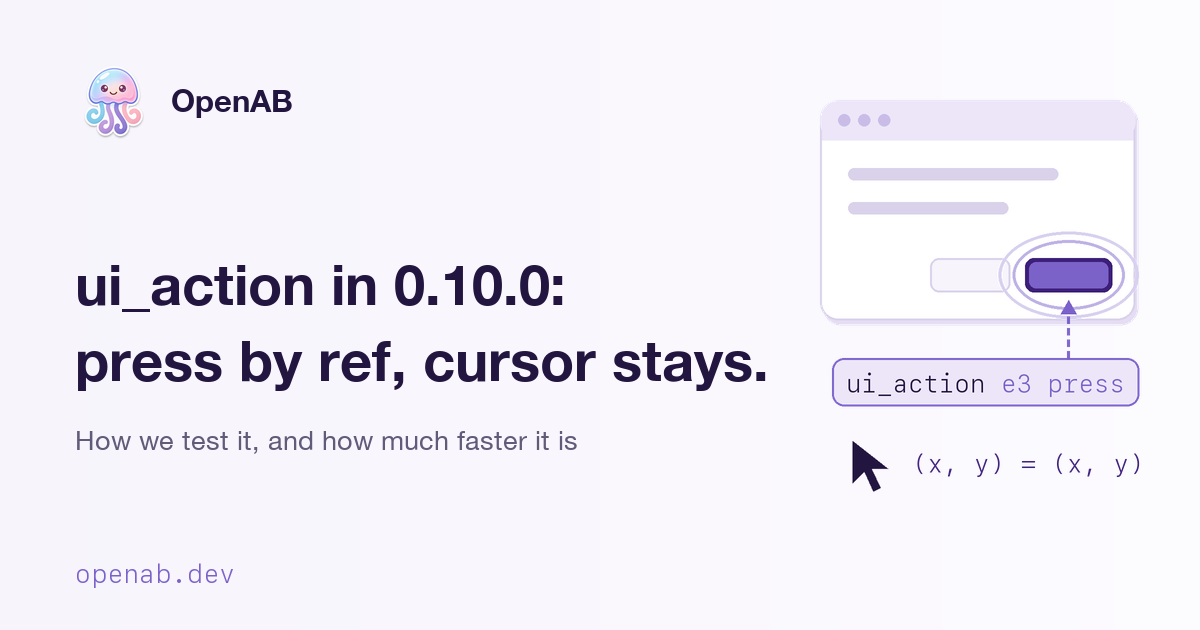
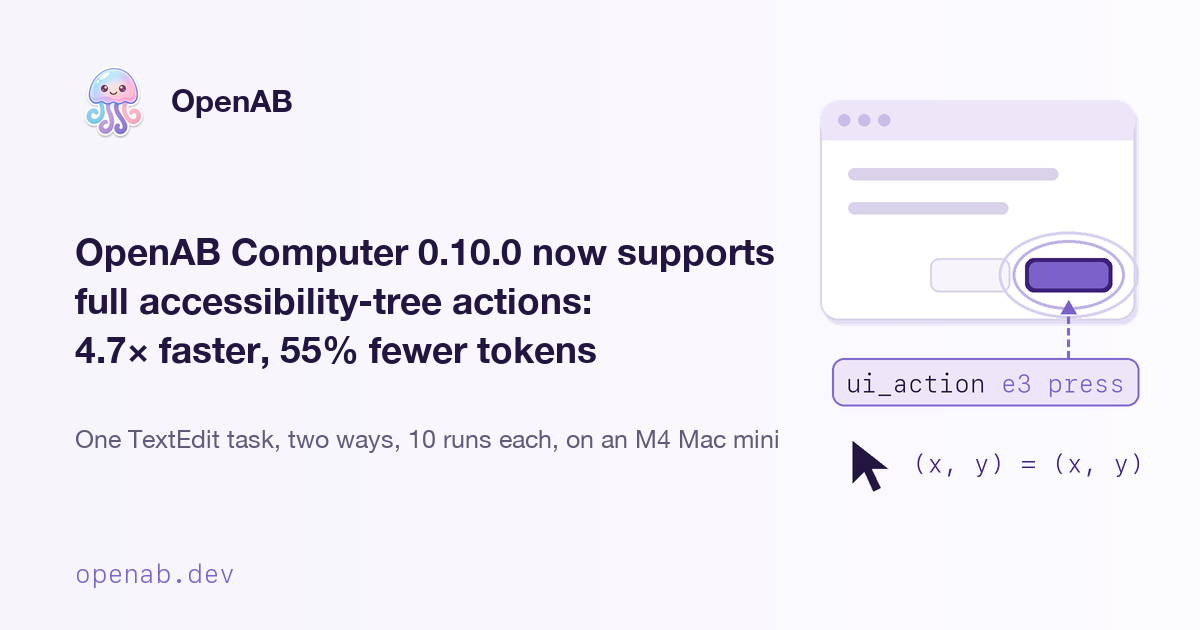
docs(notes): retitle the ui_action note with its measured results
New titles (en/zh/ja/ko), approved by pahud; slug notes/ui-action unchanged:
- en: OpenAB Computer 0.10.0 now supports full accessibility-tree actions:
  4.7× faster and 55% fewer tokens in our test
- zh: OpenAB Computer 0.10.0 開始支援完整的 accessibility tree 操作：實測快 4.7 倍，token 省 55%
- ja: OpenAB Computer 0.10.0 でアクセシビリティツリーの操作に完全対応：実測で 4.7 倍速く、トークンは 55% 削減
- ko: OpenAB Computer 0.10.0, 접근성 트리 조작 완전 지원: 실측 4.7배 빠르고 토큰 55% 절약

- A dek under the h1 (new optional `dek` field, .note .dek) states the source:
  one TextEdit task, two ways, 10 runs each, on an M4 Mac mini.
- desc / og / twitter / og:image:alt and the index entries carry the new title
  and the 4.7× / 55% figures. The body now says 55% fewer (1,435 vs 3,165) on a
  standard model and 74% fewer (1,435 vs 5,427) on a high-res model, in place
  of 2.2× / 3.8×. The first note's link to this one shows the new title.
- og_cards.py: headlines of 3-4 lines (2-line cards unchanged byte for byte);
  only the 4 ui-action cards were regenerated. Mascot and art unchanged.
- ja 組織 copy untouched. Home pages change only by the style.css hash.

Self-checks: og_cards.py (16 cards 1200x630 RGB, no overflow) then build.py;
cards viewed at 600x315 in all 4 languages; headless Chromium on 12 note pages
at 1280 and 390 px: 200, h1 + dek present, no page errors, no overflow at
390 px; every internal href/src 200, external links 200; leak grep clean;
no U+FFFD.

Changed region(s): [[0.0617, 0.3619, 0.6475, 0.6333], [0.0617, 0.6635, 0.6475, 0.7238]]

diff --git a/ja/notes/ui-action/index.html b/ja/notes/ui-action/index.html
@@ -3,30 +3,30 @@
 <head>
 <meta charset="utf-8">
 <meta name="viewport" content="width=device-width, initial-scale=1">
-<title>OpenAB Computer 0.10.0 の ui_action をどう試したか — OpenAB</title>
-<meta name="description" content="第 1 段階は macOS のアクセシビリティツリーを読むだけでした。OpenAB Computer 0.10.0 の ui_action でツリーを操作できます。一連の操作をどう試しているか、そしてスクリーンショットの繰り返しと比べた差です。TextEdit の作業一つで、入力トークンは 3,165 から 1,435 に、時間は 1.70 秒から 0.36 秒になりました。">
+<title>OpenAB Computer 0.10.0 でアクセシビリティツリーの操作に完全対応：実測で 4.7 倍速く、トークンは 55% 削減 — OpenAB</title>
+<meta name="description" content="第 1 段階は macOS のアクセシビリティツリーを読むだけでした。OpenAB Computer 0.10.0 の ui_action でツリーを操作できます。一連の操作をどう試しているか、そしてスクリーンショットの繰り返しと比べた差です。TextEdit の作業一つで 4.7 倍速く（0.36 秒対 1.70 秒）、入力トークンは 55% 少なくなりました（1,435 対 3,165）。">
 <link rel="canonical" href="https://openab.dev/ja/notes/ui-action/">
 <meta property="og:type" content="article">
 <meta property="og:site_name" content="OpenAB">
 <meta property="og:locale" content="ja_JP">
-<meta property="og:title" content="OpenAB Computer 0.10.0 の ui_action をどう試したか — OpenAB">
-<meta property="og:description" content="第 1 段階は macOS のアクセシビリティツリーを読むだけでした。OpenAB Computer 0.10.0 の ui_action でツリーを操作できます。一連の操作をどう試しているか、そしてスクリーンショットの繰り返しと比べた差です。TextEdit の作業一つで、入力トークンは 3,165 から 1,435 に、時間は 1.70 秒から 0.36 秒になりました。">
+<meta property="og:title" content="OpenAB Computer 0.10.0 でアクセシビリティツリーの操作に完全対応：実測で 4.7 倍速く、トークンは 55% 削減 — OpenAB">
+<meta property="og:description" content="第 1 段階は macOS のアクセシビリティツリーを読むだけでした。OpenAB Computer 0.10.0 の ui_action でツリーを操作できます。一連の操作をどう試しているか、そしてスクリーンショットの繰り返しと比べた差です。TextEdit の作業一つで 4.7 倍速く（0.36 秒対 1.70 秒）、入力トークンは 55% 少なくなりました（1,435 対 3,165）。">
 <meta property="og:url" content="https://openab.dev/ja/notes/ui-action/">
-<meta property="og:image" content="https://openab.dev/ja/notes/ui-action/og-ja.png?v=5183fa54">
+<meta property="og:image" content="https://openab.dev/ja/notes/ui-action/og-ja.png?v=db577590">
 <meta property="og:image:width" content="1200">
 <meta property="og:image:height" content="630">
-<meta property="og:image:alt" content="OpenAB 開発ノート：OpenAB Computer 0.10.0 の ui_action をどう試したか">
+<meta property="og:image:alt" content="OpenAB 開発ノート：OpenAB Computer 0.10.0 でアクセシビリティツリーの操作に完全対応、実測で 4.7 倍速く、トークンは 55% 削減">
 <meta property="article:published_time" content="2026-11-10">
 <meta name="twitter:card" content="summary_large_image">
-<meta name="twitter:title" content="OpenAB Computer 0.10.0 の ui_action をどう試したか — OpenAB">
-<meta name="twitter:description" content="第 1 段階は macOS のアクセシビリティツリーを読むだけでした。OpenAB Computer 0.10.0 の ui_action でツリーを操作できます。一連の操作をどう試しているか、そしてスクリーンショットの繰り返しと比べた差です。TextEdit の作業一つで、入力トークンは 3,165 から 1,435 に、時間は 1.70 秒から 0.36 秒になりました。">
-<meta name="twitter:image" content="https://openab.dev/ja/notes/ui-action/og-ja.png?v=5183fa54">
+<meta name="twitter:title" content="OpenAB Computer 0.10.0 でアクセシビリティツリーの操作に完全対応：実測で 4.7 倍速く、トークンは 55% 削減 — OpenAB">
+<meta name="twitter:description" content="第 1 段階は macOS のアクセシビリティツリーを読むだけでした。OpenAB Computer 0.10.0 の ui_action でツリーを操作できます。一連の操作をどう試しているか、そしてスクリーンショットの繰り返しと比べた差です。TextEdit の作業一つで 4.7 倍速く（0.36 秒対 1.70 秒）、入力トークンは 55% 少なくなりました（1,435 対 3,165）。">
+<meta name="twitter:image" content="https://openab.dev/ja/notes/ui-action/og-ja.png?v=db577590">
 <meta name="theme-color" content="#F7F4FC">
 <link rel="icon" type="image/png" sizes="16x16" href="../../../assets/favicon-16.png?v=24eecb58">
 <link rel="icon" type="image/png" sizes="32x32" href="../../../assets/favicon-32.png?v=54b7c8d2">
 <link rel="icon" type="image/png" sizes="64x64" href="../../../assets/favicon-64.png?v=99caab3e">
 <link rel="apple-touch-icon" href="../../../assets/apple-touch-icon.png?v=71a274e9">
-<link rel="stylesheet" href="../../../style.css?v=63e2e405">
+<link rel="stylesheet" href="../../../style.css?v=da458293">
 <link rel="alternate" hreflang="en" href="https://openab.dev/notes/ui-action/">
 <link rel="alternate" hreflang="zh-Hant" href="https://openab.dev/zh/notes/ui-action/">
 <link rel="alternate" hreflang="ja" href="https://openab.dev/ja/notes/ui-action/">
@@ -57,7 +57,8 @@ document.addEventListener("click", function (e) {
 <main class="note">
 <article>
 <p class="back"><a href="../">← 開発ノート</a></p>
-<h1>OpenAB Computer 0.10.0 の ui_action をどう試したか</h1>
+<h1>OpenAB Computer 0.10.0 でアクセシビリティツリーの操作に完全対応：実測で 4.7 倍速く、トークンは 55% 削減</h1>
+<p class="dek">M4 Mac mini 1 台で、同じ TextEdit の作業を二つのやり方で 10 回ずつ実行した結果です。</p>
 <p class="byline"><time datetime="2026-11-10">2026-11-10 · OpenAB Computer 0.10.0</time></p>
 <p class="lede"><a href="../accessibility-tree/">前回の開発ノート</a>では <code>ui_snapshot</code> を紹介しました。これが第 1 段階（OpenAB Computer 0.9.0）で、エージェントは Mac アプリのアクセシビリティツリーを読めるようになりましたが、操作はまだできませんでした。<a href="https://github.com/openabdev/openab-computer/releases/tag/v0.10.0">OpenAB Computer 0.10.0</a> で加わった <code>ui_action</code> は、このツリーを操作します。スナップショットの <code>snapshot_id</code> と <code>ref</code> を渡せば、press、set_value、focus、show_menu、confirm、cancel ができ、カーソルは動きません。</p>
 <figure class="fig anim press" data-steps="4" data-ms="1400" aria-label="アニメーション：説明用のダイアログ。エージェントはスナップショットを撮り、「保存」ボタンが ref e3 だと見つけます。マウス位置を読み、スナップショット ID、ref e3、press を渡して ui_action を呼ぶと、ボタンはアクセシビリティ API で押されます。そのあともう一度マウス位置を読むと同じ点です。カーソルは一度も動いていません。">
@@ -106,7 +107,7 @@ document.addEventListener("click", function (e) {
 <figcaption>アニメーション：同じ作業を二つのやり方で行います。新しい TextEdit の書類に一文を入力して確かめる作業です。どちらもツール呼び出しは四回で、カウンターは呼び出しごとに増えます。A のスクリーンショットの繰り返しは 1.70 秒、画像 1.0 MB、入力トークン約 3,165（高解像度モデルでは約 5,427）で終わり、ポインターが動きます。B のツリーを使うやり方は 0.36 秒、テキスト 5.8 KB、約 1,435 トークンで終わり、ポインターは動きません。M4 Mac mini でスイッチボード経由、各 10 回の中央値です。</figcaption>
 </figure>
 <div class="cmp-wrap"><table class="cmp perf"><caption>実測：やり方ごとに 10 回、同じ TextEdit の作業</caption><thead><tr><th scope="col"></th><th scope="col">A) スクリーンショットの繰り返し</th><th scope="col">B) ツリーを使う</th></tr></thead><tbody><tr><th scope="row">作業あたりのツール呼び出し</th><td data-label="A) スクリーンショットの繰り返し">4</td><td data-label="B) ツリーを使う">4</td></tr><tr><th scope="row">作業あたりの時間（中央値 / p90）</th><td data-label="A) スクリーンショットの繰り返し">1.70 s / 1.83 s</td><td data-label="B) ツリーを使う">0.36 s / 0.42 s</td></tr><tr><th scope="row">呼び出しあたりの時間（中央値）</th><td data-label="A) スクリーンショットの繰り返し">333 ms</td><td data-label="B) ツリーを使う">101 ms</td></tr><tr><th scope="row">返ってきた画像</th><td data-label="A) スクリーンショットの繰り返し">1,001,879 B（1920×1080 の JPEG 2 枚）</td><td data-label="B) ツリーを使う">0</td></tr><tr><th scope="row">返ってきたテキスト</th><td data-label="A) スクリーンショットの繰り返し">188 B</td><td data-label="B) ツリーを使う">5,846 B（スナップショット 2 回、各約 2.8 KB）</td></tr><tr><th scope="row">推定入力トークン（標準モデル）</th><td data-label="A) スクリーンショットの繰り返し">3,165</td><td data-label="B) ツリーを使う">1,435</td></tr><tr><th scope="row">推定入力トークン（高解像度モデル）</th><td data-label="A) スクリーンショットの繰り返し">5,427</td><td data-label="B) ツリーを使う">1,435</td></tr><tr><th scope="row">ポインターが動いた</th><td data-label="A) スクリーンショットの繰り返し">10 回中 10 回</td><td data-label="B) ツリーを使う">10 回中 0 回</td></tr><tr><th scope="row">文字が書類に入った</th><td data-label="A) スクリーンショットの繰り返し">10 回中 10 回</td><td data-label="B) ツリーを使う">10 回中 10 回</td></tr></tbody></table></div>
-<p>この作業では、A が使った入力トークンは標準モデルで B の約 2.2 倍（3,165 対 1,435）、高解像度モデルで約 3.8 倍（5,427 対 1,435）でした。B は 0.36 秒、A は 1.70 秒で終わり、B のほうが約 4.7 倍速く、ポインターも一度も動きませんでした。</p>
+<p>この作業では、B が使った入力トークンは標準モデルで A より約 55% 少なく（1,435 対 3,165）、高解像度モデルでは約 74% 少なくなりました（1,435 対 5,427）。B は 0.36 秒、A は 1.70 秒で終わり、B のほうが約 4.7 倍速く、ポインターも一度も動きませんでした。</p>
 <p>A の時間の多くは、44 回のキー入力（877 ms）と、スイッチボードを通って返ってくる約 500 KB のスクリーンショット 2 枚にかかっています。B の <code>ui_action</code> は一回あたり端から端まで約 67 ms で、その大半はネットワークの往復です。</p>
 <p class="cmp-note">トークンの数え方：画像は <a href="https://platform.claude.com/docs/en/build-with-claude/vision">Anthropic のビジョンのガイド</a>の式を使いました。画像をモデルの上限まで縮めてから ⌈幅/28⌉ × ⌈高さ/28⌉ です。標準モデル（長辺 1,568 px まで）では 1920×1080 のスクリーンショットが 1456×819 に縮み、約 1,560 トークン。高解像度モデル（長辺 2,576 px まで）では縮まず、約 2,691 トークンです。テキストは約 4 文字で 1 トークンとし、トークナイザーは使っていません。数えたのはモデルが実際に見る内容だけで、ツールの定義やモデル自身の出力は含みません。</p>
 <p class="cmp-note">条件：M4 Mac mini（16 GB、macOS 15.7）、1920×1080 のディスプレイ 1 枚、OpenAB Computer 0.10.0。エージェントは tailnet 上の HTTPS でスイッチボードにつなぎ、そこから Mac mini に届くので、毎回の呼び出しにこの往復がかかります。やり方ごとに 10 回、A と B を交互に実行し、最初のウォームアップ 1 組は捨てました。計ったのは四回のツール呼び出しだけです。A のクリック位置は既知のウィンドウ位置から決めました。実際のモデルなら最初のスクリーンショットから読み取ります。数字は 1 台のマシンと 1 つの作業から得たもので、モデルがスクリーンショットやスナップショットを見て考える時間は含みません。</p>

diff --git a/zh/notes/ui-action/index.html b/zh/notes/ui-action/index.html
@@ -3,30 +3,30 @@
 <head>
 <meta charset="utf-8">
 <meta name="viewport" content="width=device-width, initial-scale=1">
-<title>我們怎麼測試 OpenAB Computer 0.10.0 的 ui_action — OpenAB</title>
-<meta name="description" content="第一階段只能讀 macOS 的 accessibility tree，OpenAB Computer 0.10.0 的 ui_action 讓 agent 可以直接操作它。這篇說明我們怎麼測整個操作過程，以及它比截圖迴圈省多少：在一個 TextEdit 任務上，輸入 token 從 3,165 降到 1,435，時間從 1.70 秒降到 0.36 秒。">
+<title>OpenAB Computer 0.10.0 開始支援完整的 accessibility tree 操作：實測快 4.7 倍，token 省 55% — OpenAB</title>
+<meta name="description" content="第一階段只能讀 macOS 的 accessibility tree，OpenAB Computer 0.10.0 的 ui_action 讓 agent 可以直接操作它。這篇說明我們怎麼測整個操作過程，以及它比截圖迴圈省多少：在一個 TextEdit 任務上，快了 4.7 倍（0.36 秒對 1.70 秒），輸入 token 省了 55%（1,435 對 3,165）。">
 <link rel="canonical" href="https://openab.dev/zh/notes/ui-action/">
 <meta property="og:type" content="article">
 <meta property="og:site_name" content="OpenAB">
 <meta property="og:locale" content="zh_TW">
-<meta property="og:title" content="我們怎麼測試 OpenAB Computer 0.10.0 的 ui_action — OpenAB">
-<meta property="og:description" content="第一階段只能讀 macOS 的 accessibility tree，OpenAB Computer 0.10.0 的 ui_action 讓 agent 可以直接操作它。這篇說明我們怎麼測整個操作過程，以及它比截圖迴圈省多少：在一個 TextEdit 任務上，輸入 token 從 3,165 降到 1,435，時間從 1.70 秒降到 0.36 秒。">
+<meta property="og:title" content="OpenAB Computer 0.10.0 開始支援完整的 accessibility tree 操作：實測快 4.7 倍，token 省 55% — OpenAB">
+<meta property="og:description" content="第一階段只能讀 macOS 的 accessibility tree，OpenAB Computer 0.10.0 的 ui_action 讓 agent 可以直接操作它。這篇說明我們怎麼測整個操作過程，以及它比截圖迴圈省多少：在一個 TextEdit 任務上，快了 4.7 倍（0.36 秒對 1.70 秒），輸入 token 省了 55%（1,435 對 3,165）。">
 <meta property="og:url" content="https://openab.dev/zh/notes/ui-action/">
-<meta property="og:image" content="https://openab.dev/zh/notes/ui-action/og-zh.png?v=b0647a72">
+<meta property="og:image" content="https://openab.dev/zh/notes/ui-action/og-zh.png?v=dd73f63e">
 <meta property="og:image:width" content="1200">
 <meta property="og:image:height" content="630">
-<meta property="og:image:alt" content="OpenAB 開發筆記：我們怎麼測試 OpenAB Computer 0.10.0 的 ui_action">
+<meta property="og:image:alt" content="OpenAB 開發筆記：OpenAB Computer 0.10.0 開始支援完整的 accessibility tree 操作，實測快 4.7 倍，token 省 55%">
 <meta property="article:published_time" content="2026-11-10">
 <meta name="twitter:card" content="summary_large_image">
-<meta name="twitter:title" content="我們怎麼測試 OpenAB Computer 0.10.0 的 ui_action — OpenAB">
-<meta name="twitter:description" content="第一階段只能讀 macOS 的 accessibility tree，OpenAB Computer 0.10.0 的 ui_action 讓 agent 可以直接操作它。這篇說明我們怎麼測整個操作過程，以及它比截圖迴圈省多少：在一個 TextEdit 任務上，輸入 token 從 3,165 降到 1,435，時間從 1.70 秒降到 0.36 秒。">
-<meta name="twitter:image" content="https://openab.dev/zh/notes/ui-action/og-zh.png?v=b0647a72">
+<meta name="twitter:title" content="OpenAB Computer 0.10.0 開始支援完整的 accessibility tree 操作：實測快 4.7 倍，token 省 55% — OpenAB">
+<meta name="twitter:description" content="第一階段只能讀 macOS 的 accessibility tree，OpenAB Computer 0.10.0 的 ui_action 讓 agent 可以直接操作它。這篇說明我們怎麼測整個操作過程，以及它比截圖迴圈省多少：在一個 TextEdit 任務上，快了 4.7 倍（0.36 秒對 1.70 秒），輸入 token 省了 55%（1,435 對 3,165）。">
+<meta name="twitter:image" content="https://openab.dev/zh/notes/ui-action/og-zh.png?v=dd73f63e">
 <meta name="theme-color" content="#F7F4FC">
 <link rel="icon" type="image/png" sizes="16x16" href="../../../assets/favicon-16.png?v=24eecb58">
 <link rel="icon" type="image/png" sizes="32x32" href="../../../assets/favicon-32.png?v=54b7c8d2">
 <link rel="icon" type="image/png" sizes="64x64" href="../../../assets/favicon-64.png?v=99caab3e">
 <link rel="apple-touch-icon" href="../../../assets/apple-touch-icon.png?v=71a274e9">
-<link rel="stylesheet" href="../../../style.css?v=63e2e405">
+<link rel="stylesheet" href="../../../style.css?v=da458293">
 <link rel="alternate" hreflang="en" href="https://openab.dev/notes/ui-action/">
 <link rel="alternate" hreflang="zh-Hant" href="https://openab.dev/zh/notes/ui-action/">
 <link rel="alternate" hreflang="ja" href="https://openab.dev/ja/notes/ui-action/">
@@ -57,7 +57,8 @@ document.addEventListener("click", function (e) {
 <main class="note">
 <article>
 <p class="back"><a href="../">← 開發筆記</a></p>
-<h1>我們怎麼測試 OpenAB Computer 0.10.0 的 ui_action</h1>
+<h1>OpenAB Computer 0.10.0 開始支援完整的 accessibility tree 操作：實測快 4.7 倍，token 省 55%</h1>
+<p class="dek">在一台 M4 Mac mini 上，用同一個 TextEdit 任務兩種做法各跑 10 次的結果。</p>
 <p class="byline"><time datetime="2026-11-10">2026-11-10 · OpenAB Computer 0.10.0</time></p>
 <p class="lede"><a href="../accessibility-tree/">上一篇開發筆記</a>介紹了 <code>ui_snapshot</code>。那是第一階段（OpenAB Computer 0.9.0）：agent 讀得到 Mac app 的 accessibility tree，但還不能操作。這篇搭配 <a href="https://github.com/openabdev/openab-computer/releases/tag/v0.10.0">OpenAB Computer 0.10.0</a> 的發布，新增的 <code>ui_action</code> 讓 agent 可以直接操作這棵樹：帶著快照的 <code>snapshot_id</code> 和 <code>ref</code>，做 press、set_value、focus、show_menu、confirm 或 cancel，游標不會移動。</p>
 <figure class="fig anim press" data-steps="4" data-ms="1400" aria-label="動畫：一個示意用的對話框。agent 拍快照，找到「儲存」按鈕是 ref e3。它先讀一次滑鼠位置，再帶著快照 id、ref e3 和 press 呼叫 ui_action，按鈕透過 accessibility API 被按下。接著再讀一次滑鼠位置：同一個點，因為游標從頭到尾沒有動。">
@@ -106,7 +107,7 @@ document.addEventListener("click", function (e) {
 <figcaption>動畫：同一件事用兩種方式做，在新的 TextEdit 文件裡輸入一句話並確認。兩邊都是四次工具呼叫，計數器隨每次呼叫累加。A 截圖迴圈最後是 1.70 秒、1.0 MB 的圖片、約 3,165 個輸入 token（高解析度模型約 5,427），游標移動了。B tree 路徑最後是 0.36 秒、5.8 KB 的文字、約 1,435 個 token，游標沒動。數字是一台 M4 Mac mini 經過 switchboard、各跑 10 次的中位數。</figcaption>
 </figure>
 <div class="cmp-wrap"><table class="cmp perf"><caption>實測：每種方式 10 次，同一個 TextEdit 任務</caption><thead><tr><th scope="col"></th><th scope="col">A) 截圖迴圈</th><th scope="col">B) tree 路徑</th></tr></thead><tbody><tr><th scope="row">每個任務的工具呼叫</th><td data-label="A) 截圖迴圈">4</td><td data-label="B) tree 路徑">4</td></tr><tr><th scope="row">每個任務的時間（中位數 / p90）</th><td data-label="A) 截圖迴圈">1.70 s / 1.83 s</td><td data-label="B) tree 路徑">0.36 s / 0.42 s</td></tr><tr><th scope="row">每次呼叫的時間（中位數）</th><td data-label="A) 截圖迴圈">333 ms</td><td data-label="B) tree 路徑">101 ms</td></tr><tr><th scope="row">回傳的圖片</th><td data-label="A) 截圖迴圈">1,001,879 B（2 張 1920×1080 JPEG）</td><td data-label="B) tree 路徑">0</td></tr><tr><th scope="row">回傳的文字</th><td data-label="A) 截圖迴圈">188 B</td><td data-label="B) tree 路徑">5,846 B（2 次快照，各約 2.8 KB）</td></tr><tr><th scope="row">估計輸入 token（一般模型）</th><td data-label="A) 截圖迴圈">3,165</td><td data-label="B) tree 路徑">1,435</td></tr><tr><th scope="row">估計輸入 token（高解析度模型）</th><td data-label="A) 截圖迴圈">5,427</td><td data-label="B) tree 路徑">1,435</td></tr><tr><th scope="row">游標移動</th><td data-label="A) 截圖迴圈">10 次中 10 次</td><td data-label="B) tree 路徑">10 次中 0 次</td></tr><tr><th scope="row">文字寫進文件</th><td data-label="A) 截圖迴圈">10 次中 10 次</td><td data-label="B) tree 路徑">10 次中 10 次</td></tr></tbody></table></div>
-<p>在這個任務上，A 用掉的輸入 token 在一般模型上約是 B 的 2.2 倍（3,165 對 1,435），在高解析度模型上約是 3.8 倍（5,427 對 1,435）。B 花 0.36 秒做完，A 要 1.70 秒，B 約快 4.7 倍，而且游標從頭到尾沒動。</p>
+<p>在這個任務上，B 用掉的輸入 token 在一般模型上比 A 少約 55%（1,435 對 3,165），在高解析度模型上少約 74%（1,435 對 5,427）。B 花 0.36 秒做完，A 要 1.70 秒，B 約快 4.7 倍，而且游標從頭到尾沒動。</p>
 <p>A 的時間主要花在用鍵盤送出 44 個按鍵（877 ms），以及兩張各約 500 KB 的截圖經過 switchboard 傳回來。B 的每次 <code>ui_action</code> 呼叫端到端約 67 ms，大部分是網路往返。</p>
 <p class="cmp-note">token 怎麼算：圖片用 <a href="https://platform.claude.com/docs/en/build-with-claude/vision">Anthropic vision 指南</a>的公式，先把圖縮到模型的上限內，再算 ⌈寬/28⌉ × ⌈高/28⌉。一般模型（長邊上限 1,568 px）會把 1920×1080 的截圖縮成 1456×819，約 1,560 個 token；高解析度模型（長邊上限 2,576 px）不縮，約 2,691 個 token。文字以約 4 個字元算 1 個 token，沒有跑 tokenizer。只算模型實際會看到的內容，不含工具定義和模型自己的輸出。</p>
 <p class="cmp-note">測試條件：一台 M4 Mac mini（16 GB、macOS 15.7），一個 1920×1080 的螢幕，裝的是 OpenAB Computer 0.10.0。agent 經 tailnet 用 HTTPS 連到 switchboard，再轉到這台 Mac mini，每次呼叫都要付這段往返。A、B 各跑 10 次，交錯進行，最前面一組暖身不計。只計四次工具呼叫的時間。A 點擊的座標取自已知的視窗位置，真的模型得先從第一張截圖裡找出來。這些數字來自一台機器、一個任務，也不包含模型看截圖或快照、思考下一步的時間。</p>

diff --git a/ko/notes/ui-action/index.html b/ko/notes/ui-action/index.html
@@ -3,30 +3,30 @@
 <head>
 <meta charset="utf-8">
 <meta name="viewport" content="width=device-width, initial-scale=1">
-<title>OpenAB Computer 0.10.0의 ui_action을 어떻게 시험했나 — OpenAB</title>
-<meta name="description" content="1단계는 macOS 접근성 트리를 읽기만 했습니다. OpenAB Computer 0.10.0의 ui_action으로 트리를 조작할 수 있습니다. 전체 과정을 어떻게 시험하는지, 그리고 스크린샷 반복과 비교한 차이를 정리했습니다. TextEdit 작업 하나에서 입력 토큰은 3,165개에서 1,435개로, 시간은 1.70초에서 0.36초로 줄었습니다.">
+<title>OpenAB Computer 0.10.0, 접근성 트리 조작 완전 지원: 실측 4.7배 빠르고 토큰 55% 절약 — OpenAB</title>
+<meta name="description" content="1단계는 macOS 접근성 트리를 읽기만 했습니다. OpenAB Computer 0.10.0의 ui_action으로 트리를 조작할 수 있습니다. 전체 과정을 어떻게 시험하는지, 그리고 스크린샷 반복과 비교한 차이를 정리했습니다. TextEdit 작업 하나에서 4.7배 빨랐고(0.36초 대 1.70초), 입력 토큰은 55% 적었습니다(1,435 대 3,165).">
 <link rel="canonical" href="https://openab.dev/ko/notes/ui-action/">
 <meta property="og:type" content="article">
 <meta property="og:site_name" content="OpenAB">
 <meta property="og:locale" content="ko_KR">
-<meta property="og:title" content="OpenAB Computer 0.10.0의 ui_action을 어떻게 시험했나 — OpenAB">
-<meta property="og:description" content="1단계는 macOS 접근성 트리를 읽기만 했습니다. OpenAB Computer 0.10.0의 ui_action으로 트리를 조작할 수 있습니다. 전체 과정을 어떻게 시험하는지, 그리고 스크린샷 반복과 비교한 차이를 정리했습니다. TextEdit 작업 하나에서 입력 토큰은 3,165개에서 1,435개로, 시간은 1.70초에서 0.36초로 줄었습니다.">
+<meta property="og:title" content="OpenAB Computer 0.10.0, 접근성 트리 조작 완전 지원: 실측 4.7배 빠르고 토큰 55% 절약 — OpenAB">
+<meta property="og:description" content="1단계는 macOS 접근성 트리를 읽기만 했습니다. OpenAB Computer 0.10.0의 ui_action으로 트리를 조작할 수 있습니다. 전체 과정을 어떻게 시험하는지, 그리고 스크린샷 반복과 비교한 차이를 정리했습니다. TextEdit 작업 하나에서 4.7배 빨랐고(0.36초 대 1.70초), 입력 토큰은 55% 적었습니다(1,435 대 3,165).">
 <meta property="og:url" content="https://openab.dev/ko/notes/ui-action/">
-<meta property="og:image" content="https://openab.dev/ko/notes/ui-action/og-ko.png?v=2823a1ff">
+<meta property="og:image" content="https://openab.dev/ko/notes/ui-action/og-ko.png?v=07f15759">
 <meta property="og:image:width" content="1200">
 <meta property="og:image:height" content="630">
-<meta property="og:image:alt" content="OpenAB 개발 노트: OpenAB Computer 0.10.0의 ui_action을 어떻게 시험했나">
+<meta property="og:image:alt" content="OpenAB 개발 노트: OpenAB Computer 0.10.0, 접근성 트리 조작 완전 지원, 실측 4.7배 빠르고 토큰 55% 절약">
 <meta property="article:published_time" content="2026-11-10">
 <meta name="twitter:card" content="summary_large_image">
-<meta name="twitter:title" content="OpenAB Computer 0.10.0의 ui_action을 어떻게 시험했나 — OpenAB">
-<meta name="twitter:description" content="1단계는 macOS 접근성 트리를 읽기만 했습니다. OpenAB Computer 0.10.0의 ui_action으로 트리를 조작할 수 있습니다. 전체 과정을 어떻게 시험하는지, 그리고 스크린샷 반복과 비교한 차이를 정리했습니다. TextEdit 작업 하나에서 입력 토큰은 3,165개에서 1,435개로, 시간은 1.70초에서 0.36초로 줄었습니다.">
-<meta name="twitter:image" content="https://openab.dev/ko/notes/ui-action/og-ko.png?v=2823a1ff">
+<meta name="twitter:title" content="OpenAB Computer 0.10.0, 접근성 트리 조작 완전 지원: 실측 4.7배 빠르고 토큰 55% 절약 — OpenAB">
+<meta name="twitter:description" content="1단계는 macOS 접근성 트리를 읽기만 했습니다. OpenAB Computer 0.10.0의 ui_action으로 트리를 조작할 수 있습니다. 전체 과정을 어떻게 시험하는지, 그리고 스크린샷 반복과 비교한 차이를 정리했습니다. TextEdit 작업 하나에서 4.7배 빨랐고(0.36초 대 1.70초), 입력 토큰은 55% 적었습니다(1,435 대 3,165).">
+<meta name="twitter:image" content="https://openab.dev/ko/notes/ui-action/og-ko.png?v=07f15759">
 <meta name="theme-color" content="#F7F4FC">
 <link rel="icon" type="image/png" sizes="16x16" href="../../../assets/favicon-16.png?v=24eecb58">
 <link rel="icon" type="image/png" sizes="32x32" href="../../../assets/favicon-32.png?v=54b7c8d2">
 <link rel="icon" type="image/png" sizes="64x64" href="../../../assets/favicon-64.png?v=99caab3e">
 <link rel="apple-touch-icon" href="../../../assets/apple-touch-icon.png?v=71a274e9">
-<link rel="stylesheet" href="../../../style.css?v=63e2e405">
+<link rel="stylesheet" href="../../../style.css?v=da458293">
 <link rel="alternate" hreflang="en" href="https://openab.dev/notes/ui-action/">
 <link rel="alternate" hreflang="zh-Hant" href="https://openab.dev/zh/notes/ui-action/">
 <link rel="alternate" hreflang="ja" href="https://openab.dev/ja/notes/ui-action/">
@@ -57,7 +57,8 @@ document.addEventListener("click", function (e) {
 <main class="note">
 <article>
 <p class="back"><a href="../">← 개발 노트</a></p>
-<h1>OpenAB Computer 0.10.0의 ui_action을 어떻게 시험했나</h1>
+<h1>OpenAB Computer 0.10.0, 접근성 트리 조작 완전 지원: 실측 4.7배 빠르고 토큰 55% 절약</h1>
+<p class="dek">M4 Mac mini 한 대에서 같은 TextEdit 작업을 두 가지 방식으로 10번씩 돌린 결과입니다.</p>
 <p class="byline"><time datetime="2026-11-10">2026-11-10 · OpenAB Computer 0.10.0</time></p>
 <p class="lede"><a href="../accessibility-tree/">지난 개발 노트</a>에서는 <code>ui_snapshot</code>을 소개했습니다. 그것이
 1단계(OpenAB Computer 0.9.0)로, 에이전트가 Mac 앱의 접근성 트리를 읽을 수는 있었지만 조작은 아직
@@ -122,8 +123,8 @@ set_value, focus, show_menu, confirm, cancel을 할 수 있고, 커서는 움직
 <figcaption>애니메이션: 같은 작업을 두 가지 방식으로 합니다. 새 TextEdit 문서에 문장 하나를 입력하고 확인하는 작업입니다. 양쪽 모두 도구 호출은 네 번이고, 카운터는 호출마다 늘어납니다. A 스크린샷 반복은 1.70초, 이미지 1.0 MB, 입력 토큰 약 3,165개(고해상도 모델은 약 5,427개)로 끝나고 포인터가 움직입니다. B 트리 경로는 0.36초, 텍스트 5.8 KB, 약 1,435개 토큰으로 끝나고 포인터는 그대로입니다. M4 Mac mini에서 스위치보드를 거쳐 각각 10번 돌린 중앙값입니다.</figcaption>
 </figure>
 <div class="cmp-wrap"><table class="cmp perf"><caption>실측: 방식마다 10번, 같은 TextEdit 작업</caption><thead><tr><th scope="col"></th><th scope="col">A) 스크린샷 반복</th><th scope="col">B) 트리 경로</th></tr></thead><tbody><tr><th scope="row">작업당 도구 호출</th><td data-label="A) 스크린샷 반복">4</td><td data-label="B) 트리 경로">4</td></tr><tr><th scope="row">작업당 시간(중앙값 / p90)</th><td data-label="A) 스크린샷 반복">1.70 s / 1.83 s</td><td data-label="B) 트리 경로">0.36 s / 0.42 s</td></tr><tr><th scope="row">호출당 시간(중앙값)</th><td data-label="A) 스크린샷 반복">333 ms</td><td data-label="B) 트리 경로">101 ms</td></tr><tr><th scope="row">돌아온 이미지</th><td data-label="A) 스크린샷 반복">1,001,879 B(1920×1080 JPEG 2장)</td><td data-label="B) 트리 경로">0</td></tr><tr><th scope="row">돌아온 텍스트</th><td data-label="A) 스크린샷 반복">188 B</td><td data-label="B) 트리 경로">5,846 B(스냅샷 2번, 각 약 2.8 KB)</td></tr><tr><th scope="row">추정 입력 토큰(표준 모델)</th><td data-label="A) 스크린샷 반복">3,165</td><td data-label="B) 트리 경로">1,435</td></tr><tr><th scope="row">추정 입력 토큰(고해상도 모델)</th><td data-label="A) 스크린샷 반복">5,427</td><td data-label="B) 트리 경로">1,435</td></tr><tr><th scope="row">포인터가 움직임</th><td data-label="A) 스크린샷 반복">10번 중 10번</td><td data-label="B) 트리 경로">10번 중 0번</td></tr><tr><th scope="row">문서에 글자가 들어감</th><td data-label="A) 스크린샷 반복">10번 중 10번</td><td data-label="B) 트리 경로">10번 중 10번</td></tr></tbody></table></div>
-<p>이 작업에서 A가 쓴 입력 토큰은 표준 모델에서 B의 약 2.2배(3,165 대 1,435), 고해상도 모델에서 약
-3.8배(5,427 대 1,435)였습니다. B는 0.36초, A는 1.70초 만에 끝나 B가 약 4.7배 빨랐고, 포인터도 한 번도
+<p>이 작업에서 B가 쓴 입력 토큰은 표준 모델에서 A보다 약 55% 적었고(1,435 대 3,165), 고해상도 모델에서는 약
+74% 적었습니다(1,435 대 5,427). B는 0.36초, A는 1.70초 만에 끝나 B가 약 4.7배 빨랐고, 포인터도 한 번도
 움직이지 않았습니다.</p>
 <p>A의 시간은 대부분 키 44개 입력(877 ms)과, 스위치보드를 거쳐 돌아오는 약 500 KB짜리 스크린샷 두 장에
 들어갑니다. B의 <code>ui_action</code>은 호출마다 처음부터 끝까지 약 67 ms였고, 대부분은 네트워크

diff --git a/notes/ui-action/index.html b/notes/ui-action/index.html
@@ -3,30 +3,30 @@
 <head>
 <meta charset="utf-8">
 <meta name="viewport" content="width=device-width, initial-scale=1">
-<title>How we tested ui_action in OpenAB Computer 0.10.0 — OpenAB</title>
-<meta name="description" content="Phase 1 could read the macOS accessibility tree; OpenAB Computer 0.10.0 adds ui_action to act on it. How we test the whole operation, and what it saves against a screenshot loop: on one TextEdit task, input tokens went from 3,165 to 1,435 and time from 1.70 s to 0.36 s.">
+<title>OpenAB Computer 0.10.0 now supports full accessibility-tree actions: 4.7× faster and 55% fewer tokens in our test — OpenAB</title>
+<meta name="description" content="Phase 1 could read the macOS accessibility tree; OpenAB Computer 0.10.0 adds ui_action to act on it. How we test the whole operation, and what it saves against a screenshot loop: on one TextEdit task it was 4.7× faster (0.36 s vs 1.70 s) and used 55% fewer input tokens (1,435 vs 3,165).">
 <link rel="canonical" href="https://openab.dev/notes/ui-action/">
 <meta property="og:type" content="article">
 <meta property="og:site_name" content="OpenAB">
 <meta property="og:locale" content="en_US">
-<meta property="og:title" content="How we tested ui_action in OpenAB Computer 0.10.0 — OpenAB">
-<meta property="og:description" content="Phase 1 could read the macOS accessibility tree; OpenAB Computer 0.10.0 adds ui_action to act on it. How we test the whole operation, and what it saves against a screenshot loop: on one TextEdit task, input tokens went from 3,165 to 1,435 and time from 1.70 s to 0.36 s.">
+<meta property="og:title" content="OpenAB Computer 0.10.0 now supports full accessibility-tree actions: 4.7× faster and 55% fewer tokens in our test — OpenAB">
+<meta property="og:description" content="Phase 1 could read the macOS accessibility tree; OpenAB Computer 0.10.0 adds ui_action to act on it. How we test the whole operation, and what it saves against a screenshot loop: on one TextEdit task it was 4.7× faster (0.36 s vs 1.70 s) and used 55% fewer input tokens (1,435 vs 3,165).">
 <meta property="og:url" content="https://openab.dev/notes/ui-action/">
-<meta property="og:image" content="https://openab.dev/notes/ui-action/og-en.png?v=8c0e7140">
+<meta property="og:image" content="https://openab.dev/notes/ui-action/og-en.png?v=d5e2c399">
 <meta property="og:image:width" content="1200">
 <meta property="og:image:height" content="630">
-<meta property="og:image:alt" content="OpenAB dev note: how we tested ui_action in OpenAB Computer 0.10.0">
+<meta property="og:image:alt" content="OpenAB dev note: OpenAB Computer 0.10.0 now supports full accessibility-tree actions, 4.7× faster and 55% fewer tokens in our test">
 <meta property="article:published_time" content="2026-11-10">
 <meta name="twitter:card" content="summary_large_image">
-<meta name="twitter:title" content="How we tested ui_action in OpenAB Computer 0.10.0 — OpenAB">
-<meta name="twitter:description" content="Phase 1 could read the macOS accessibility tree; OpenAB Computer 0.10.0 adds ui_action to act on it. How we test the whole operation, and what it saves against a screenshot loop: on one TextEdit task, input tokens went from 3,165 to 1,435 and time from 1.70 s to 0.36 s.">
-<meta name="twitter:image" content="https://openab.dev/notes/ui-action/og-en.png?v=8c0e7140">
+<meta name="twitter:title" content="OpenAB Computer 0.10.0 now supports full accessibility-tree actions: 4.7× faster and 55% fewer tokens in our test — OpenAB">
+<meta name="twitter:description" content="Phase 1 could read the macOS accessibility tree; OpenAB Computer 0.10.0 adds ui_action to act on it. How we test the whole operation, and what it saves against a screenshot loop: on one TextEdit task it was 4.7× faster (0.36 s vs 1.70 s) and used 55% fewer input tokens (1,435 vs 3,165).">
+<meta name="twitter:image" content="https://openab.dev/notes/ui-action/og-en.png?v=d5e2c399">
 <meta name="theme-color" content="#F7F4FC">
 <link rel="icon" type="image/png" sizes="16x16" href="../../assets/favicon-16.png?v=24eecb58">
 <link rel="icon" type="image/png" sizes="32x32" href="../../assets/favicon-32.png?v=54b7c8d2">
 <link rel="icon" type="image/png" sizes="64x64" href="../../assets/favicon-64.png?v=99caab3e">
 <link rel="apple-touch-icon" href="../../assets/apple-touch-icon.png?v=71a274e9">
-<link rel="stylesheet" href="../../style.css?v=63e2e405">
+<link rel="stylesheet" href="../../style.css?v=da458293">
 <link rel="alternate" hreflang="en" href="https://openab.dev/notes/ui-action/">
 <link rel="alternate" hreflang="zh-Hant" href="https://openab.dev/zh/notes/ui-action/">
 <link rel="alternate" hreflang="ja" href="https://openab.dev/ja/notes/ui-action/">
@@ -57,7 +57,8 @@ document.addEventListener("click", function (e) {
 <main class="note">
 <article>
 <p class="back"><a href="../">← Dev notes</a></p>
-<h1>How we tested ui_action in OpenAB Computer 0.10.0</h1>
+<h1>OpenAB Computer 0.10.0 now supports full accessibility-tree actions: 4.7× faster and 55% fewer tokens in our test</h1>
+<p class="dek">Results from one TextEdit task done two ways, 10 runs each, on an M4 Mac mini.</p>
 <p class="byline"><time datetime="2026-11-10">2026-11-10 · OpenAB Computer 0.10.0</time></p>
 <p class="lede">The <a href="../accessibility-tree/">previous dev note</a> introduced <code>ui_snapshot</code>. That was
 phase 1, in OpenAB Computer 0.9.0: an agent could read a Mac app's accessibility tree, but it could
@@ -127,8 +128,8 @@ text area → <code>key</code> type → <code>screenshot</code> to check.</li>
 <figcaption>Animation: the same task done two ways, typing a sentence into a new TextEdit document and checking it. Both sides make four tool calls; the counters add up each call. A, the screenshot loop, ends at 1.70 s, 1.0 MB of images and about 3,165 input tokens (5,427 on a high-resolution model), and the pointer moves. B, the tree path, ends at 0.36 s, 5.8 KB of text and about 1,435 tokens, and the pointer stays put. Medians of 10 runs each on an M4 Mac mini through the switchboard.</figcaption>
 </figure>
 <div class="cmp-wrap"><table class="cmp perf"><caption>Measured: 10 runs per approach, one TextEdit task</caption><thead><tr><th scope="col"></th><th scope="col">A) Screenshot loop</th><th scope="col">B) Tree path</th></tr></thead><tbody><tr><th scope="row">Tool calls per task</th><td data-label="A) Screenshot loop">4</td><td data-label="B) Tree path">4</td></tr><tr><th scope="row">Time per task, median / p90</th><td data-label="A) Screenshot loop">1.70 s / 1.83 s</td><td data-label="B) Tree path">0.36 s / 0.42 s</td></tr><tr><th scope="row">Time per call, median</th><td data-label="A) Screenshot loop">333 ms</td><td data-label="B) Tree path">101 ms</td></tr><tr><th scope="row">Images returned</th><td data-label="A) Screenshot loop">1,001,879 B (2 JPEGs, 1920×1080)</td><td data-label="B) Tree path">0</td></tr><tr><th scope="row">Text returned</th><td data-label="A) Screenshot loop">188 B</td><td data-label="B) Tree path">5,846 B (2 snapshots, ~2.8 KB each)</td></tr><tr><th scope="row">Est. input tokens, standard model</th><td data-label="A) Screenshot loop">3,165</td><td data-label="B) Tree path">1,435</td></tr><tr><th scope="row">Est. input tokens, high-res model</th><td data-label="A) Screenshot loop">5,427</td><td data-label="B) Tree path">1,435</td></tr><tr><th scope="row">Pointer moved</th><td data-label="A) Screenshot loop">10 of 10 runs</td><td data-label="B) Tree path">0 of 10 runs</td></tr><tr><th scope="row">Text landed in the document</th><td data-label="A) Screenshot loop">10 of 10</td><td data-label="B) Tree path">10 of 10</td></tr></tbody></table></div>
-<p>On this task, B used about 2.2× fewer input tokens than A on a standard model (1,435 vs 3,165)
-and about 3.8× fewer on a high-resolution model (1,435 vs 5,427). It finished in 0.36 s against
+<p>On this task, B used about 55% fewer input tokens than A on a standard model (1,435 vs 3,165)
+and about 74% fewer on a high-resolution model (1,435 vs 5,427). It finished in 0.36 s against
 1.70 s, about 4.7× faster, and the pointer never moved.</p>
 <p>Most of A's time goes to typing 44 keystrokes (877 ms) and to the two screenshots, about 500 KB
 each, coming back through the switchboard. Each <code>ui_action</code> call took about 67 ms end to

diff --git a/ja/notes/accessibility-tree/index.html b/ja/notes/accessibility-tree/index.html
@@ -26,7 +26,7 @@
 <link rel="icon" type="image/png" sizes="32x32" href="../../../assets/favicon-32.png?v=54b7c8d2">
 <link rel="icon" type="image/png" sizes="64x64" href="../../../assets/favicon-64.png?v=99caab3e">
 <link rel="apple-touch-icon" href="../../../assets/apple-touch-icon.png?v=71a274e9">
-<link rel="stylesheet" href="../../../style.css?v=63e2e405">
+<link rel="stylesheet" href="../../../style.css?v=da458293">
 <link rel="alternate" hreflang="en" href="https://openab.dev/notes/accessibility-tree/">
 <link rel="alternate" hreflang="zh-Hant" href="https://openab.dev/zh/notes/accessibility-tree/">
 <link rel="alternate" hreflang="ja" href="https://openab.dev/ja/notes/accessibility-tree/">
@@ -237,7 +237,7 @@ stdio の MCP サーバーとして動きます。</li>
 <figcaption>アニメーション：第 2 段階の ui_action で、OpenAB Computer 0.10.0 でリリースしました。スナップショットのあと、エージェントはスナップショット ID、ref e7、press という操作を渡して ui_action を呼びます。OpenAB Computer はアクセシビリティ API で OK ボタンを押し、カーソルは元の位置のままです。そのあとエージェントは新しいスナップショットで確かめます。</figcaption>
 </figure>
 <p>Linux（AT-SPI）は p3 として <a href="https://github.com/openabdev/openab-computer/issues/102">issue #102</a> で後回しにし、Linux のマシンで必要になったら取りかかります。macOS の部分が終わったので #67 は閉じました。<code>ui_action</code> をどう試し、スクリーンショットの繰り返しと比べてどれだけ速いかは次のノートにあります：
-<a href="../ui-action/">OpenAB Computer 0.10.0 の ui_action をどう試したか</a>。</p>
+<a href="../ui-action/">OpenAB Computer 0.10.0 でアクセシビリティツリーの操作に完全対応：実測で 4.7 倍速く、トークンは 55% 削減</a>。</p>
 
 <p class="outro">試すには、<a href="https://github.com/openabdev/openab-computer/releases/tag/v0.10.0">OpenAB Computer 0.10.0</a> に更新してアクセシビリティ権限を与え、
 <code>owner</code> プロファイルのエージェントから <code>ui_snapshot</code>、続けて

diff --git a/ja/notes/index.html b/ja/notes/index.html
@@ -25,7 +25,7 @@
 <link rel="icon" type="image/png" sizes="32x32" href="../../assets/favicon-32.png?v=54b7c8d2">
 <link rel="icon" type="image/png" sizes="64x64" href="../../assets/favicon-64.png?v=99caab3e">
 <link rel="apple-touch-icon" href="../../assets/apple-touch-icon.png?v=71a274e9">
-<link rel="stylesheet" href="../../style.css?v=63e2e405">
+<link rel="stylesheet" href="../../style.css?v=da458293">
 <link rel="alternate" hreflang="en" href="https://openab.dev/notes/">
 <link rel="alternate" hreflang="zh-Hant" href="https://openab.dev/zh/notes/">
 <link rel="alternate" hreflang="ja" href="https://openab.dev/ja/notes/">
@@ -60,8 +60,8 @@ document.addEventListener("click", function (e) {
   <li>
     <a class="card note-item" href="ui-action/">
       <time class="when" datetime="2026-11-10">2026-11-10</time>
-      <h2 class="note-title">OpenAB Computer 0.10.0 の ui_action をどう試したか</h2>
-      <p class="card-desc">第 1 段階は macOS のアクセシビリティツリーを読むだけでした。OpenAB Computer 0.10.0 の ui_action でツリーを操作できます。一連の操作をどう試しているか、そしてスクリーンショットの繰り返しと比べた差です。TextEdit の作業一つで、入力トークンは 3,165 から 1,435 に、時間は 1.70 秒から 0.36 秒になりました。</p>
+      <h2 class="note-title">OpenAB Computer 0.10.0 でアクセシビリティツリーの操作に完全対応：実測で 4.7 倍速く、トークンは 55% 削減</h2>
+      <p class="card-desc">第 1 段階は macOS のアクセシビリティツリーを読むだけでした。OpenAB Computer 0.10.0 の ui_action でツリーを操作できます。一連の操作をどう試しているか、そしてスクリーンショットの繰り返しと比べた差です。TextEdit の作業一つで 4.7 倍速く（0.36 秒対 1.70 秒）、入力トークンは 55% 少なくなりました（1,435 対 3,165）。</p>
       <span class="card-link">ノートを読む</span>
     </a>
   </li>

diff --git a/ko/notes/index.html b/ko/notes/index.html
@@ -25,7 +25,7 @@
 <link rel="icon" type="image/png" sizes="32x32" href="../../assets/favicon-32.png?v=54b7c8d2">
 <link rel="icon" type="image/png" sizes="64x64" href="../../assets/favicon-64.png?v=99caab3e">
 <link rel="apple-touch-icon" href="../../assets/apple-touch-icon.png?v=71a274e9">
-<link rel="stylesheet" href="../../style.css?v=63e2e405">
+<link rel="stylesheet" href="../../style.css?v=da458293">
 <link rel="alternate" hreflang="en" href="https://openab.dev/notes/">
 <link rel="alternate" hreflang="zh-Hant" href="https://openab.dev/zh/notes/">
 <link rel="alternate" hreflang="ja" href="https://openab.dev/ja/notes/">
@@ -60,8 +60,8 @@ document.addEventListener("click", function (e) {
   <li>
     <a class="card note-item" href="ui-action/">
       <time class="when" datetime="2026-11-10">2026-11-10</time>
-      <h2 class="note-title">OpenAB Computer 0.10.0의 ui_action을 어떻게 시험했나</h2>
-      <p class="card-desc">1단계는 macOS 접근성 트리를 읽기만 했습니다. OpenAB Computer 0.10.0의 ui_action으로 트리를 조작할 수 있습니다. 전체 과정을 어떻게 시험하는지, 그리고 스크린샷 반복과 비교한 차이를 정리했습니다. TextEdit 작업 하나에서 입력 토큰은 3,165개에서 1,435개로, 시간은 1.70초에서 0.36초로 줄었습니다.</p>
+      <h2 class="note-title">OpenAB Computer 0.10.0, 접근성 트리 조작 완전 지원: 실측 4.7배 빠르고 토큰 55% 절약</h2>
+      <p class="card-desc">1단계는 macOS 접근성 트리를 읽기만 했습니다. OpenAB Computer 0.10.0의 ui_action으로 트리를 조작할 수 있습니다. 전체 과정을 어떻게 시험하는지, 그리고 스크린샷 반복과 비교한 차이를 정리했습니다. TextEdit 작업 하나에서 4.7배 빨랐고(0.36초 대 1.70초), 입력 토큰은 55% 적었습니다(1,435 대 3,165).</p>
       <span class="card-link">노트 읽기</span>
     </a>
   </li>

diff --git a/zh/notes/index.html b/zh/notes/index.html
@@ -25,7 +25,7 @@
 <link rel="icon" type="image/png" sizes="32x32" href="../../assets/favicon-32.png?v=54b7c8d2">
 <link rel="icon" type="image/png" sizes="64x64" href="../../assets/favicon-64.png?v=99caab3e">
 <link rel="apple-touch-icon" href="../../assets/apple-touch-icon.png?v=71a274e9">
-<link rel="stylesheet" href="../../style.css?v=63e2e405">
+<link rel="stylesheet" href="../../style.css?v=da458293">
 <link rel="alternate" hreflang="en" href="https://openab.dev/notes/">
 <link rel="alternate" hreflang="zh-Hant" href="https://openab.dev/zh/notes/">
 <link rel="alternate" hreflang="ja" href="https://openab.dev/ja/notes/">
@@ -60,8 +60,8 @@ document.addEventListener("click", function (e) {
   <li>
     <a class="card note-item" href="ui-action/">
       <time class="when" datetime="2026-11-10">2026-11-10</time>
-      <h2 class="note-title">我們怎麼測試 OpenAB Computer 0.10.0 的 ui_action</h2>
-      <p class="card-desc">第一階段只能讀 macOS 的 accessibility tree，OpenAB Computer 0.10.0 的 ui_action 讓 agent 可以直接操作它。這篇說明我們怎麼測整個操作過程，以及它比截圖迴圈省多少：在一個 TextEdit 任務上，輸入 token 從 3,165 降到 1,435，時間從 1.70 秒降到 0.36 秒。</p>
+      <h2 class="note-title">OpenAB Computer 0.10.0 開始支援完整的 accessibility tree 操作：實測快 4.7 倍，token 省 55%</h2>
+      <p class="card-desc">第一階段只能讀 macOS 的 accessibility tree，OpenAB Computer 0.10.0 的 ui_action 讓 agent 可以直接操作它。這篇說明我們怎麼測整個操作過程，以及它比截圖迴圈省多少：在一個 TextEdit 任務上，快了 4.7 倍（0.36 秒對 1.70 秒），輸入 token 省了 55%（1,435 對 3,165）。</p>
       <span class="card-link">閱讀筆記</span>
     </a>
   </li>

diff --git a/ko/notes/accessibility-tree/index.html b/ko/notes/accessibility-tree/index.html
@@ -26,7 +26,7 @@
 <link rel="icon" type="image/png" sizes="32x32" href="../../../assets/favicon-32.png?v=54b7c8d2">
 <link rel="icon" type="image/png" sizes="64x64" href="../../../assets/favicon-64.png?v=99caab3e">
 <link rel="apple-touch-icon" href="../../../assets/apple-touch-icon.png?v=71a274e9">
-<link rel="stylesheet" href="../../../style.css?v=63e2e405">
+<link rel="stylesheet" href="../../../style.css?v=da458293">
 <link rel="alternate" hreflang="en" href="https://openab.dev/notes/accessibility-tree/">
 <link rel="alternate" hreflang="zh-Hant" href="https://openab.dev/zh/notes/accessibility-tree/">
 <link rel="alternate" hreflang="ja" href="https://openab.dev/ja/notes/accessibility-tree/">
@@ -315,7 +315,7 @@ Desktop은 macOS, Windows, Linux를 지원합니다.</li>
 </figure>
 <p>Linux(AT-SPI)는 p3로 <a href="https://github.com/openabdev/openab-computer/issues/102">issue #102</a>에 미뤄 두었고, Linux 기기에서 필요해지면
 시작합니다. macOS 부분이 끝나서 #67은 닫혔습니다. <code>ui_action</code>을 어떻게 시험했고 스크린샷
-반복보다 얼마나 빠른지는 다음 노트에 있습니다: <a href="../ui-action/">OpenAB Computer 0.10.0의 ui_action을 어떻게 시험했나</a>.</p>
+반복보다 얼마나 빠른지는 다음 노트에 있습니다: <a href="../ui-action/">OpenAB Computer 0.10.0, 접근성 트리 조작 완전 지원: 실측 4.7배 빠르고 토큰 55% 절약</a>.</p>
 
 <p class="outro">써 보려면 <a href="https://github.com/openabdev/openab-computer/releases/tag/v0.10.0">OpenAB Computer 0.10.0</a>으로 업데이트하고 손쉬운 사용 권한을 준 뒤,
 <code>owner</code> 프로필의 에이전트에서 <code>ui_snapshot</code>을 호출하고 이어서

diff --git a/notes/index.html b/notes/index.html
@@ -25,7 +25,7 @@
 <link rel="icon" type="image/png" sizes="32x32" href="../assets/favicon-32.png?v=54b7c8d2">
 <link rel="icon" type="image/png" sizes="64x64" href="../assets/favicon-64.png?v=99caab3e">
 <link rel="apple-touch-icon" href="../assets/apple-touch-icon.png?v=71a274e9">
-<link rel="stylesheet" href="../style.css?v=63e2e405">
+<link rel="stylesheet" href="../style.css?v=da458293">
 <link rel="alternate" hreflang="en" href="https://openab.dev/notes/">
 <link rel="alternate" hreflang="zh-Hant" href="https://openab.dev/zh/notes/">
 <link rel="alternate" hreflang="ja" href="https://openab.dev/ja/notes/">
@@ -60,8 +60,8 @@ document.addEventListener("click", function (e) {
   <li>
     <a class="card note-item" href="ui-action/">
       <time class="when" datetime="2026-11-10">2026-11-10</time>
-      <h2 class="note-title">How we tested ui_action in OpenAB Computer 0.10.0</h2>
-      <p class="card-desc">Phase 1 could read the macOS accessibility tree; OpenAB Computer 0.10.0 adds ui_action to act on it. How we test the whole operation, and what it saves against a screenshot loop: on one TextEdit task, input tokens went from 3,165 to 1,435 and time from 1.70 s to 0.36 s.</p>
+      <h2 class="note-title">OpenAB Computer 0.10.0 now supports full accessibility-tree actions: 4.7× faster and 55% fewer tokens in our test</h2>
+      <p class="card-desc">Phase 1 could read the macOS accessibility tree; OpenAB Computer 0.10.0 adds ui_action to act on it. How we test the whole operation, and what it saves against a screenshot loop: on one TextEdit task it was 4.7× faster (0.36 s vs 1.70 s) and used 55% fewer input tokens (1,435 vs 3,165).</p>
       <span class="card-link">Read the note</span>
     </a>
   </li>

diff --git a/zh/notes/accessibility-tree/index.html b/zh/notes/accessibility-tree/index.html
@@ -26,7 +26,7 @@
 <link rel="icon" type="image/png" sizes="32x32" href="../../../assets/favicon-32.png?v=54b7c8d2">
 <link rel="icon" type="image/png" sizes="64x64" href="../../../assets/favicon-64.png?v=99caab3e">
 <link rel="apple-touch-icon" href="../../../assets/apple-touch-icon.png?v=71a274e9">
-<link rel="stylesheet" href="../../../style.css?v=63e2e405">
+<link rel="stylesheet" href="../../../style.css?v=da458293">
 <link rel="alternate" hreflang="en" href="https://openab.dev/notes/accessibility-tree/">
 <link rel="alternate" hreflang="zh-Hant" href="https://openab.dev/zh/notes/accessibility-tree/">
 <link rel="alternate" hreflang="ja" href="https://openab.dev/ja/notes/accessibility-tree/">
@@ -241,7 +241,7 @@ macOS、Windows 和 Linux。</li>
 </figure>
 <p>Linux（AT-SPI）先延後，列為 p3，記在 <a href="https://github.com/openabdev/openab-computer/issues/102">issue #102</a>，等有 Linux 機器真的需要時再做；
 macOS 的部分做完了，#67 已經關閉。我們怎麼測 <code>ui_action</code>，以及它比截圖迴圈快多少，寫在下一篇：
-<a href="../ui-action/">我們怎麼測試 OpenAB Computer 0.10.0 的 ui_action</a>。</p>
+<a href="../ui-action/">OpenAB Computer 0.10.0 開始支援完整的 accessibility tree 操作：實測快 4.7 倍，token 省 55%</a>。</p>
 
 <p class="outro">想試試看的話：更新到 <a href="https://github.com/openabdev/openab-computer/releases/tag/v0.10.0">OpenAB Computer 0.10.0</a>，給它「輔助使用」權限，再從使用 <code>owner</code> profile 的 agent 先呼叫 <code>ui_snapshot</code>，再呼叫
 <code>ui_action</code>。</p>

diff --git a/notes/accessibility-tree/index.html b/notes/accessibility-tree/index.html
@@ -26,7 +26,7 @@
 <link rel="icon" type="image/png" sizes="32x32" href="../../assets/favicon-32.png?v=54b7c8d2">
 <link rel="icon" type="image/png" sizes="64x64" href="../../assets/favicon-64.png?v=99caab3e">
 <link rel="apple-touch-icon" href="../../assets/apple-touch-icon.png?v=71a274e9">
-<link rel="stylesheet" href="../../style.css?v=63e2e405">
+<link rel="stylesheet" href="../../style.css?v=da458293">
 <link rel="alternate" hreflang="en" href="https://openab.dev/notes/accessibility-tree/">
 <link rel="alternate" hreflang="zh-Hant" href="https://openab.dev/zh/notes/accessibility-tree/">
 <link rel="alternate" hreflang="ja" href="https://openab.dev/ja/notes/accessibility-tree/">
@@ -326,7 +326,7 @@ a switchboard, setting a value on a password field is refused unless the owner o
 <p>Linux (AT-SPI) is deferred as p3 in <a href="https://github.com/openabdev/openab-computer/issues/102">issue #102</a>, to be picked up when a Linux
 machine needs it; #67 is closed now that the macOS part is done. How we test
 <code>ui_action</code>, and how much faster it is than a screenshot loop, is in the next note:
-<a href="../ui-action/">How we tested ui_action in OpenAB Computer 0.10.0</a>.</p>
+<a href="../ui-action/">OpenAB Computer 0.10.0 now supports full accessibility-tree actions: 4.7× faster and 55% fewer tokens in our test</a>.</p>
 
 <p class="outro">To try it, update to <a href="https://github.com/openabdev/openab-computer/releases/tag/v0.10.0">OpenAB Computer 0.10.0</a>, give it the
 Accessibility permission, and call <code>ui_snapshot</code> and then <code>ui_action</code> from an
